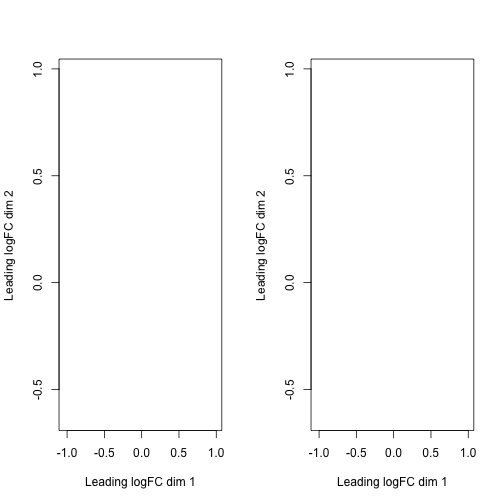
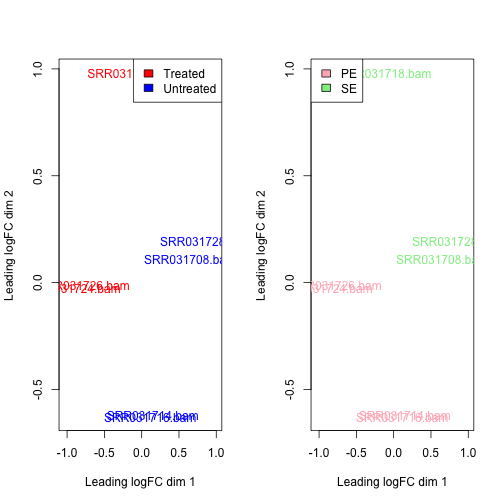
changed name of drosophila targets file, updated html

diff --git a/09-applying-rnaseq-solutions.html b/09-applying-rnaseq-solutions.html
@@ -57,7 +57,7 @@
 </code></pre>
 <p>Next, read in the data and targets file:</p>
 <pre class="sourceCode r"><code class="sourceCode r">counts &lt;-<span class="st"> </span><span class="kw">read.delim</span>(<span class="dt">file=</span><span class="st">&quot;data/counts_Drosophila.txt&quot;</span>)
-targets &lt;-<span class="st"> </span><span class="kw">read.delim</span>(<span class="dt">file=</span><span class="st">&quot;data/targets.txt&quot;</span>)</code></pre>
+targets &lt;-<span class="st"> </span><span class="kw">read.delim</span>(<span class="dt">file=</span><span class="st">&quot;data/targets_drosophila.txt&quot;</span>)</code></pre>
 <p>Check that the data has read in correctly</p>
 <pre class="sourceCode r"><code class="sourceCode r"><span class="kw">head</span>(counts)</code></pre>
 <pre class="output"><code>            SRR031714.bam SRR031716.bam SRR031724.bam SRR031726.bam
@@ -76,24 +76,21 @@ FBgn0037217            15            15            17
 FBgn0037218           695           767           793
 </code></pre>
 <pre class="sourceCode r"><code class="sourceCode r">targets</code></pre>
-<pre class="output"><code>                            FileName SampleName CellType   Status
-1  MCL1.DG_BC2CTUACXX_ACTTGA_L002_R1    MCL1.DG    basal   virgin
-2  MCL1.DH_BC2CTUACXX_CAGATC_L002_R1    MCL1.DH    basal   virgin
-3  MCL1.DI_BC2CTUACXX_ACAGTG_L002_R1    MCL1.DI    basal pregnant
-4  MCL1.DJ_BC2CTUACXX_CGATGT_L002_R1    MCL1.DJ    basal pregnant
-5  MCL1.DK_BC2CTUACXX_TTAGGC_L002_R1    MCL1.DK    basal  lactate
-6  MCL1.DL_BC2CTUACXX_ATCACG_L002_R1    MCL1.DL    basal  lactate
-7  MCL1.LA_BC2CTUACXX_GATCAG_L001_R1    MCL1.LA  luminal   virgin
-8  MCL1.LB_BC2CTUACXX_TGACCA_L001_R1    MCL1.LB  luminal   virgin
-9  MCL1.LC_BC2CTUACXX_GCCAAT_L001_R1    MCL1.LC  luminal pregnant
-10 MCL1.LD_BC2CTUACXX_GGCTAC_L001_R1    MCL1.LD  luminal pregnant
-11 MCL1.LE_BC2CTUACXX_TAGCTT_L001_R1    MCL1.LE  luminal  lactate
-12 MCL1.LF_BC2CTUACXX_CTTGTA_L001_R1    MCL1.LF  luminal  lactate
+<pre class="output"><code>  SampleName     Group Library
+1  SRR031714 Untreated      PE
+2  SRR031716 Untreated      PE
+3  SRR031724   Treated      PE
+4  SRR031726   Treated      PE
+5  SRR031708 Untreated      SE
+6  SRR031718   Treated      SE
+7  SRR031728 Untreated      SE
 </code></pre>
 <h2 id="filtering-out-lowly-expressed-genes">Filtering out lowly expressed genes</h2>
 <p>Our main interest is in testing the treated versus untreated groups. To check how many samples we have in each group we can use the <code>table</code> command.</p>
 <pre class="sourceCode r"><code class="sourceCode r"><span class="kw">table</span>(targets$Group)</code></pre>
-<pre class="output"><code>&lt; table of extent 0 &gt;
+<pre class="output"><code>
+  Treated Untreated 
+        3         4 
 </code></pre>
 <p>The minimum sample size is 3. Let’s check the relationship between CPM and counts to see what CPM threshold we should be imposing. Recall we’re looking for a CPM that corresponds to a count of roughly 10-15.</p>
 <pre class="sourceCode r"><code class="sourceCode r">mycpm &lt;-<span class="st"> </span><span class="kw">cpm</span>(counts)
@@ -141,14 +138,10 @@ lib.col &lt;-<span class="st"> </span><span class="kw">c</span>(<span class="st"
 <p><img src="fig/unnamed-chunk-13-1.png" title="plot of chunk unnamed-chunk-13" alt="plot of chunk unnamed-chunk-13" style="display: block; margin: auto;" /></p>
 <pre class="sourceCode r"><code class="sourceCode r"><span class="kw">par</span>(<span class="dt">mfrow=</span><span class="kw">c</span>(<span class="dv">1</span>,<span class="dv">2</span>))
 <span class="kw">plotMDS</span>(y,<span class="dt">col=</span>group.col)
-<span class="kw">legend</span>(<span class="st">&quot;topright&quot;</span>,<span class="dt">legend=</span><span class="kw">levels</span>(targets$Group),<span class="dt">fill=</span><span class="kw">c</span>(<span class="st">&quot;red&quot;</span>,<span class="st">&quot;blue&quot;</span>))</code></pre>
-<pre class="error"><code>Error in legend(&quot;topright&quot;, legend = levels(targets$Group), fill = c(&quot;red&quot;, : &#39;legend&#39; is of length 0
-</code></pre>
-<pre class="sourceCode r"><code class="sourceCode r"><span class="kw">plotMDS</span>(y,<span class="dt">col=</span>lib.col)</code></pre>
+<span class="kw">legend</span>(<span class="st">&quot;topright&quot;</span>,<span class="dt">legend=</span><span class="kw">levels</span>(targets$Group),<span class="dt">fill=</span><span class="kw">c</span>(<span class="st">&quot;red&quot;</span>,<span class="st">&quot;blue&quot;</span>))
+<span class="kw">plotMDS</span>(y,<span class="dt">col=</span>lib.col)
+<span class="kw">legend</span>(<span class="st">&quot;topleft&quot;</span>,<span class="dt">legend=</span><span class="kw">levels</span>(targets$Library),<span class="dt">fill=</span><span class="kw">c</span>(<span class="st">&quot;light pink&quot;</span>,<span class="st">&quot;light green&quot;</span>))</code></pre>
 <p><img src="fig/unnamed-chunk-14-1.png" title="plot of chunk unnamed-chunk-14" alt="plot of chunk unnamed-chunk-14" style="display: block; margin: auto;" /></p>
-<pre class="sourceCode r"><code class="sourceCode r"><span class="kw">legend</span>(<span class="st">&quot;topleft&quot;</span>,<span class="dt">legend=</span><span class="kw">levels</span>(targets$Library),<span class="dt">fill=</span><span class="kw">c</span>(<span class="st">&quot;light pink&quot;</span>,<span class="st">&quot;light green&quot;</span>))</code></pre>
-<pre class="error"><code>Error in legend(&quot;topleft&quot;, legend = levels(targets$Library), fill = c(&quot;light pink&quot;, : &#39;legend&#39; is of length 0
-</code></pre>
 <h2 id="hierarchical-clustering-with-heatmap.2">Hierarchical clustering with heatmap.2</h2>
 <p>First we need a matrix of log counts:</p>
 <pre class="sourceCode r"><code class="sourceCode r">logcounts &lt;-<span class="st"> </span><span class="kw">cpm</span>(y,<span class="dt">log=</span><span class="ot">TRUE</span>)</code></pre>
@@ -164,11 +157,9 @@ lib.col &lt;-<span class="st"> </span><span class="kw">c</span>(<span class="st"
 morecols &lt;-<span class="st"> </span><span class="kw">colorRampPalette</span>(mypalette)
 <span class="co"># Plot the heatmap</span>
 <span class="kw">heatmap.2</span>(highly_variable_lcpm,<span class="dt">col=</span><span class="kw">rev</span>(<span class="kw">morecols</span>(<span class="dv">50</span>)),<span class="dt">trace=</span><span class="st">&quot;none&quot;</span>, <span class="dt">main=</span><span class="st">&quot;Top 500 most variable genes across samples&quot;</span>,<span class="dt">ColSideColors=</span>group.col,<span class="dt">scale=</span><span class="st">&quot;row&quot;</span>,<span class="dt">margins=</span><span class="kw">c</span>(<span class="dv">10</span>,<span class="dv">5</span>))</code></pre>
-<pre class="error"><code>Error in heatmap.2(highly_variable_lcpm, col = rev(morecols(50)), trace = &quot;none&quot;, : &#39;ColSideColors&#39; must be a character vector of length ncol(x)
-</code></pre>
+<p><img src="fig/unnamed-chunk-19-1.png" title="plot of chunk unnamed-chunk-19" alt="plot of chunk unnamed-chunk-19" style="display: block; margin: auto;" /></p>
 <pre class="sourceCode r"><code class="sourceCode r"><span class="kw">heatmap.2</span>(highly_variable_lcpm,<span class="dt">col=</span><span class="kw">rev</span>(<span class="kw">morecols</span>(<span class="dv">50</span>)),<span class="dt">trace=</span><span class="st">&quot;none&quot;</span>, <span class="dt">main=</span><span class="st">&quot;Top 500 most variable genes across samples&quot;</span>,<span class="dt">ColSideColors=</span>lib.col,<span class="dt">scale=</span><span class="st">&quot;row&quot;</span>,<span class="dt">margins=</span><span class="kw">c</span>(<span class="dv">10</span>,<span class="dv">5</span>))</code></pre>
-<pre class="error"><code>Error in heatmap.2(highly_variable_lcpm, col = rev(morecols(50)), trace = &quot;none&quot;, : &#39;ColSideColors&#39; must be a character vector of length ncol(x)
-</code></pre>
+<p><img src="fig/unnamed-chunk-19-2.png" title="plot of chunk unnamed-chunk-19" alt="plot of chunk unnamed-chunk-19" style="display: block; margin: auto;" /></p>
 <h2 id="normalisation">Normalisation</h2>
 <p>Let’s do TMM normalisation</p>
 <pre class="sourceCode r"><code class="sourceCode r">y &lt;-<span class="st"> </span><span class="kw">calcNormFactors</span>(y)
@@ -191,51 +182,69 @@ SRR031728.bam     1  4031608    1.0106328
 <h2 id="differential-expression">Differential expression</h2>
 <h3 id="set-up-design-matrix">Set up design matrix</h3>
 <p>We want to test for differences between the treated and untreated samples. However, we know that the library preparation adds variability to the data, so we need to account for it in our model. We do this by modelling both Group and Library as variables in our design matrix. This is known as an additive model.</p>
-<pre class="sourceCode r"><code class="sourceCode r">design &lt;-<span class="st"> </span><span class="kw">model.matrix</span>(~targets$Library +<span class="st"> </span>targets$Group)</code></pre>
-<pre class="error"><code>Error in model.frame.default(object, data, xlev = xlev): invalid type (NULL) for variable &#39;targets$Library&#39;
-</code></pre>
-<pre class="sourceCode r"><code class="sourceCode r">design</code></pre>
-<pre class="output"><code>standardGeneric for &quot;design&quot; defined from package &quot;BiocGenerics&quot;
+<pre class="sourceCode r"><code class="sourceCode r">design &lt;-<span class="st"> </span><span class="kw">model.matrix</span>(~targets$Library +<span class="st"> </span>targets$Group)
+design</code></pre>
+<pre class="output"><code>  (Intercept) targets$LibrarySE targets$GroupUntreated
+1           1                 0                      1
+2           1                 0                      1
+3           1                 0                      0
+4           1                 0                      0
+5           1                 1                      1
+6           1                 1                      0
+7           1                 1                      1
+attr(,&quot;assign&quot;)
+[1] 0 1 2
+attr(,&quot;contrasts&quot;)
+attr(,&quot;contrasts&quot;)$`targets$Library`
+[1] &quot;contr.treatment&quot;
 
-function (object, ...) 
-standardGeneric(&quot;design&quot;)
-&lt;environment: 0x7ffdeb1a8188&gt;
-Methods may be defined for arguments: object
-Use  showMethods(&quot;design&quot;)  for currently available ones.
+attr(,&quot;contrasts&quot;)$`targets$Group`
+[1] &quot;contr.treatment&quot;
 </code></pre>
 <pre class="sourceCode r"><code class="sourceCode r"><span class="kw">colnames</span>(design) &lt;-<span class="st"> </span><span class="kw">c</span>(<span class="st">&quot;Int&quot;</span>,<span class="st">&quot;SEvsPE&quot;</span>,<span class="st">&quot;UVsT&quot;</span>)</code></pre>
-<pre class="error"><code>Error in `colnames&lt;-`(`*tmp*`, value = c(&quot;Int&quot;, &quot;SEvsPE&quot;, &quot;UVsT&quot;)): attempt to set &#39;colnames&#39; on an object with less than two dimensions
-</code></pre>
 <h3 id="voom-transform-the-data">Voom transform the data</h3>
 <pre class="sourceCode r"><code class="sourceCode r"><span class="kw">par</span>(<span class="dt">mfrow=</span><span class="kw">c</span>(<span class="dv">1</span>,<span class="dv">1</span>))
 v &lt;-<span class="st"> </span><span class="kw">voom</span>(y,design,<span class="dt">plot=</span><span class="ot">TRUE</span>)</code></pre>
-<pre class="error"><code>Error in as.vector(x, mode): cannot coerce type &#39;closure&#39; to vector of type &#39;any&#39;
-</code></pre>
+<p><img src="fig/unnamed-chunk-23-1.png" title="plot of chunk unnamed-chunk-23" alt="plot of chunk unnamed-chunk-23" style="display: block; margin: auto;" /></p>
 <pre class="sourceCode r"><code class="sourceCode r"><span class="kw">par</span>(<span class="dt">mfrow=</span><span class="kw">c</span>(<span class="dv">1</span>,<span class="dv">2</span>))
 <span class="kw">boxplot</span>(logcounts)
 <span class="kw">abline</span>(<span class="dt">h=</span><span class="kw">median</span>(logcounts),<span class="dt">col=</span><span class="dv">4</span>)
-<span class="kw">boxplot</span>(v$E)</code></pre>
-<pre class="error"><code>Error in boxplot(v$E): object &#39;v&#39; not found
-</code></pre>
-<pre class="sourceCode r"><code class="sourceCode r"><span class="kw">abline</span>(<span class="dt">h=</span><span class="kw">median</span>(v$E),<span class="dt">col=</span><span class="dv">4</span>)</code></pre>
-<pre class="error"><code>Error in median(v$E): object &#39;v&#39; not found
-</code></pre>
+<span class="kw">boxplot</span>(v$E)
+<span class="kw">abline</span>(<span class="dt">h=</span><span class="kw">median</span>(v$E),<span class="dt">col=</span><span class="dv">4</span>)</code></pre>
 <p><img src="fig/unnamed-chunk-24-1.png" title="plot of chunk unnamed-chunk-24" alt="plot of chunk unnamed-chunk-24" style="display: block; margin: auto;" /></p>
 <h3 id="test-for-differential-expression">Test for differential expression</h3>
-<pre class="sourceCode r"><code class="sourceCode r">fit &lt;-<span class="st"> </span><span class="kw">lmFit</span>(v,design)</code></pre>
-<pre class="error"><code>Error in is(object, &quot;list&quot;): object &#39;v&#39; not found
-</code></pre>
-<pre class="sourceCode r"><code class="sourceCode r">fit &lt;-<span class="st"> </span><span class="kw">eBayes</span>(fit)</code></pre>
-<pre class="error"><code>Error in ebayes(fit = fit, proportion = proportion, stdev.coef.lim = stdev.coef.lim, : object &#39;fit&#39; not found
-</code></pre>
-<pre class="sourceCode r"><code class="sourceCode r">results &lt;-<span class="st"> </span><span class="kw">decideTests</span>(fit)</code></pre>
-<pre class="error"><code>Error in is(object, &quot;MArrayLM&quot;): object &#39;fit&#39; not found
-</code></pre>
-<pre class="sourceCode r"><code class="sourceCode r"><span class="kw">summary</span>(results)</code></pre>
-<pre class="error"><code>Error in summary(results): object &#39;results&#39; not found
+<pre class="sourceCode r"><code class="sourceCode r">fit &lt;-<span class="st"> </span><span class="kw">lmFit</span>(v,design)
+fit &lt;-<span class="st"> </span><span class="kw">eBayes</span>(fit)
+results &lt;-<span class="st"> </span><span class="kw">decideTests</span>(fit)
+<span class="kw">summary</span>(results)</code></pre>
+<pre class="output"><code>    Int SEvsPE UVsT
+-1    4    125  440
+0    66   7142 6641
+1  7454    257  443
 </code></pre>
 <pre class="sourceCode r"><code class="sourceCode r"><span class="kw">topTable</span>(fit,<span class="dt">coef=</span><span class="dv">3</span>,<span class="dt">sort.by=</span><span class="st">&quot;p&quot;</span>)</code></pre>
-<pre class="error"><code>Error in is(fit, &quot;MArrayLM&quot;): object &#39;fit&#39; not found
+<pre class="output"><code>                logFC   AveExpr         t      P.Value    adj.P.Val
+FBgn0025111 -2.863110  6.253448 -31.24326 9.756044e-13 4.734428e-09
+FBgn0003360  3.089242  7.778378  30.57062 1.258487e-12 4.734428e-09
+FBgn0026562  2.422219 11.359837  24.25592 1.868075e-11 4.685133e-08
+FBgn0029167  2.247086  7.825170  21.77945 6.509505e-11 1.224438e-07
+FBgn0035085  2.677008  5.180607  18.97509 3.188148e-10 4.797524e-07
+FBgn0039155  4.272254  4.800907  17.42222 8.476440e-10 1.062946e-06
+FBgn0040091  1.559497  6.245766  15.43293 3.363833e-09 3.615639e-06
+FBgn0023479  1.576335  7.768886  15.06473 4.419245e-09 3.877495e-06
+FBgn0029896  2.312097  4.881577  15.00033 4.638152e-09 3.877495e-06
+FBgn0027279  1.180272  7.760889  14.37303 7.503535e-09 5.645660e-06
+                   B
+FBgn0025111 19.04663
+FBgn0003360 19.04370
+FBgn0026562 16.57869
+FBgn0029167 15.57725
+FBgn0035085 13.66077
+FBgn0039155 12.15024
+FBgn0040091 11.72125
+FBgn0023479 11.43434
+FBgn0029896 11.25267
+FBgn0027279 10.89435
 </code></pre>
 <h3 id="add-annotation-from-org.dm.eg.db">Add annotation from org.Dm.eg.db</h3>
 <p>The rownames of the fit object are the ensemble gene ids. The <code>select</code> function doesn’t work in this case, but there is a less elegant way to get around it, using the <code>toTable</code> command.</p>
@@ -309,65 +318,139 @@ ann2 &lt;-<span class="st"> </span><span class="kw">merge</span>(ann1,genename,<
 6 CG42852 gene product from transcript CG42852-RA
 </code></pre>
 <p>Now we need to match up between <code>rownames(fit)</code> and the ensemble gene id in <code>ann2</code>.</p>
-<pre class="sourceCode r"><code class="sourceCode r">m &lt;-<span class="st"> </span><span class="kw">match</span>(<span class="kw">rownames</span>(fit),ann2$ensembl_id)</code></pre>
-<pre class="error"><code>Error in rownames(fit): object &#39;fit&#39; not found
-</code></pre>
-<pre class="sourceCode r"><code class="sourceCode r"><span class="kw">table</span>(<span class="kw">is.na</span>(m))</code></pre>
-<pre class="error"><code>Error in eval(expr, envir, enclos): object &#39;m&#39; not found
+<pre class="sourceCode r"><code class="sourceCode r">m &lt;-<span class="st"> </span><span class="kw">match</span>(<span class="kw">rownames</span>(fit),ann2$ensembl_id)
+<span class="kw">table</span>(<span class="kw">is.na</span>(m))</code></pre>
+<pre class="output"><code>
+FALSE  TRUE 
+ 6986   538 
 </code></pre>
 <pre class="sourceCode r"><code class="sourceCode r">fit$genes &lt;-<span class="st"> </span>ann2[m,]</code></pre>
-<pre class="error"><code>Error in `[.data.frame`(ann2, m, ): object &#39;m&#39; not found
-</code></pre>
 <pre class="sourceCode r"><code class="sourceCode r"><span class="kw">topTable</span>(fit,<span class="dt">coef=</span><span class="dv">3</span>,<span class="dt">sort.by=</span><span class="st">&quot;p&quot;</span>)</code></pre>
-<pre class="error"><code>Error in is(fit, &quot;MArrayLM&quot;): object &#39;fit&#39; not found
+<pre class="output"><code>            gene_id  ensembl_id      symbol
+FBgn0025111   32008 FBgn0025111        Ant2
+FBgn0003360   32007 FBgn0003360        sesB
+FBgn0026562   43230 FBgn0026562 BM-40-SPARC
+FBgn0029167   39529 FBgn0029167         Hml
+FBgn0035085   37991 FBgn0035085      CG3770
+FBgn0039155   42865 FBgn0039155        Kal1
+FBgn0040091   37590 FBgn0040091     Ugt58Fa
+FBgn0023479   39048 FBgn0023479     Tequila
+FBgn0029896   31612 FBgn0029896      CG3168
+FBgn0027279   33137 FBgn0027279   l(1)G0196
+                                                gene_name     logFC
+FBgn0025111              Adenine nucleotide translocase 2 -2.863110
+FBgn0003360                            stress-sensitive B  3.089242
+FBgn0026562 CG6378 gene product from transcript CG6378-RA  2.422219
+FBgn0029167                                    Hemolectin  2.247086
+FBgn0035085 CG3770 gene product from transcript CG3770-RA  2.677008
+FBgn0039155                  Kallmann syndrome 1 ortholog  4.272254
+FBgn0040091 CG4414 gene product from transcript CG4414-RB  1.559497
+FBgn0023479 CG4821 gene product from transcript CG4821-RG  1.576335
+FBgn0029896 CG3168 gene product from transcript CG3168-RG  2.312097
+FBgn0027279                              lethal (1) G0196  1.180272
+              AveExpr         t      P.Value    adj.P.Val        B
+FBgn0025111  6.253448 -31.24326 9.756044e-13 4.734428e-09 19.04663
+FBgn0003360  7.778378  30.57062 1.258487e-12 4.734428e-09 19.04370
+FBgn0026562 11.359837  24.25592 1.868075e-11 4.685133e-08 16.57869
+FBgn0029167  7.825170  21.77945 6.509505e-11 1.224438e-07 15.57725
+FBgn0035085  5.180607  18.97509 3.188148e-10 4.797524e-07 13.66077
+FBgn0039155  4.800907  17.42222 8.476440e-10 1.062946e-06 12.15024
+FBgn0040091  6.245766  15.43293 3.363833e-09 3.615639e-06 11.72125
+FBgn0023479  7.768886  15.06473 4.419245e-09 3.877495e-06 11.43434
+FBgn0029896  4.881577  15.00033 4.638152e-09 3.877495e-06 11.25267
+FBgn0027279  7.760889  14.37303 7.503535e-09 5.645660e-06 10.89435
 </code></pre>
 <p>Let’s check the expression of pasilla.</p>
-<pre class="sourceCode r"><code class="sourceCode r">ps &lt;-<span class="st"> </span><span class="kw">grep</span>(<span class="st">&quot;pasilla&quot;</span>,fit$genes$gene_name)</code></pre>
-<pre class="error"><code>Error in grep(&quot;pasilla&quot;, fit$genes$gene_name): object &#39;fit&#39; not found
-</code></pre>
-<pre class="sourceCode r"><code class="sourceCode r"><span class="kw">topTable</span>(fit[ps,],<span class="dt">coef=</span><span class="dv">3</span>)</code></pre>
-<pre class="error"><code>Error in is(fit, &quot;MArrayLM&quot;): object &#39;fit&#39; not found
+<pre class="sourceCode r"><code class="sourceCode r">ps &lt;-<span class="st"> </span><span class="kw">grep</span>(<span class="st">&quot;pasilla&quot;</span>,fit$genes$gene_name)
+<span class="kw">topTable</span>(fit[ps,],<span class="dt">coef=</span><span class="dv">3</span>)</code></pre>
+<pre class="output"><code>            gene_id  ensembl_id symbol gene_name    logFC  AveExpr       t
+FBgn0261552   44258 FBgn0261552     ps   pasilla 1.845368 8.344996 11.5651
+                P.Value   adj.P.Val        B
+FBgn0261552 8.37355e-08 8.37355e-08 8.425095
 </code></pre>
 <h2 id="plots-after-testing-for-de">Plots after testing for DE</h2>
 <pre class="sourceCode r"><code class="sourceCode r"><span class="kw">par</span>(<span class="dt">mfrow=</span><span class="kw">c</span>(<span class="dv">1</span>,<span class="dv">2</span>))
-<span class="kw">plotMD</span>(fit,<span class="dt">coef=</span><span class="dv">3</span>,<span class="dt">status=</span>results[,<span class="st">&quot;UVsT&quot;</span>])</code></pre>
-<pre class="error"><code>Error in plotMD(fit, coef = 3, status = results[, &quot;UVsT&quot;]): object &#39;fit&#39; not found
-</code></pre>
-<pre class="sourceCode r"><code class="sourceCode r"><span class="kw">volcanoplot</span>(fit,<span class="dt">coef=</span><span class="dv">3</span>,<span class="dt">highlight=</span><span class="dv">100</span>,<span class="dt">names=</span>fit$genes$symbol)</code></pre>
-<pre class="error"><code>Error in is(fit, &quot;MArrayLM&quot;): object &#39;fit&#39; not found
-</code></pre>
+<span class="kw">plotMD</span>(fit,<span class="dt">coef=</span><span class="dv">3</span>,<span class="dt">status=</span>results[,<span class="st">&quot;UVsT&quot;</span>])
+
+<span class="kw">volcanoplot</span>(fit,<span class="dt">coef=</span><span class="dv">3</span>,<span class="dt">highlight=</span><span class="dv">100</span>,<span class="dt">names=</span>fit$genes$symbol)</code></pre>
+<p><img src="fig/unnamed-chunk-31-1.png" title="plot of chunk unnamed-chunk-31" alt="plot of chunk unnamed-chunk-31" style="display: block; margin: auto;" /></p>
 <pre class="sourceCode r"><code class="sourceCode r"><span class="kw">stripchart</span>(v$E[<span class="st">&quot;FBgn0025111&quot;</span>,]~targets$Group)</code></pre>
-<pre class="error"><code>Error in eval(expr, envir, enclos): object &#39;v&#39; not found
-</code></pre>
+<p><img src="fig/unnamed-chunk-32-1.png" title="plot of chunk unnamed-chunk-32" alt="plot of chunk unnamed-chunk-32" style="display: block; margin: auto;" /></p>
 <pre class="sourceCode r"><code class="sourceCode r"><span class="co"># Check expression of Pasilla</span>
 <span class="kw">stripchart</span>(v$E[<span class="st">&quot;FBgn0261552&quot;</span>,]~targets$Group)</code></pre>
-<pre class="error"><code>Error in eval(expr, envir, enclos): object &#39;v&#39; not found
-</code></pre>
+<p><img src="fig/unnamed-chunk-33-1.png" title="plot of chunk unnamed-chunk-33" alt="plot of chunk unnamed-chunk-33" style="display: block; margin: auto;" /></p>
 <h2 id="testing-relative-to-a-threshold">Testing relative to a threshold</h2>
-<pre class="sourceCode r"><code class="sourceCode r">fit.treat &lt;-<span class="st"> </span><span class="kw">treat</span>(fit,<span class="dt">lfc=</span><span class="dv">1</span>)</code></pre>
-<pre class="error"><code>Error in is(fit, &quot;MArrayLM&quot;): object &#39;fit&#39; not found
-</code></pre>
-<pre class="sourceCode r"><code class="sourceCode r">res.treat &lt;-<span class="st"> </span><span class="kw">decideTests</span>(fit.treat)</code></pre>
-<pre class="error"><code>Error in is(object, &quot;MArrayLM&quot;): object &#39;fit.treat&#39; not found
-</code></pre>
-<pre class="sourceCode r"><code class="sourceCode r"><span class="kw">summary</span>(res.treat)</code></pre>
-<pre class="error"><code>Error in summary(res.treat): object &#39;res.treat&#39; not found
+<pre class="sourceCode r"><code class="sourceCode r">fit.treat &lt;-<span class="st"> </span><span class="kw">treat</span>(fit,<span class="dt">lfc=</span><span class="dv">1</span>)
+res.treat &lt;-<span class="st"> </span><span class="kw">decideTests</span>(fit.treat)
+<span class="kw">summary</span>(res.treat)</code></pre>
+<pre class="output"><code>    Int SEvsPE UVsT
+-1    2     13   10
+0   350   7510 7496
+1  7172      1   18
 </code></pre>
 <pre class="sourceCode r"><code class="sourceCode r"><span class="kw">topTreat</span>(fit.treat,<span class="dt">coef=</span><span class="dv">3</span>)</code></pre>
-<pre class="error"><code>Error in is(fit, &quot;MArrayLM&quot;): object &#39;fit.treat&#39; not found
+<pre class="output"><code>            gene_id  ensembl_id      symbol
+FBgn0003360   32007 FBgn0003360        sesB
+FBgn0025111   32008 FBgn0025111        Ant2
+FBgn0026562   43230 FBgn0026562 BM-40-SPARC
+FBgn0039155   42865 FBgn0039155        Kal1
+FBgn0029167   39529 FBgn0029167         Hml
+FBgn0035085   37991 FBgn0035085      CG3770
+FBgn0034736   37572 FBgn0034736      CG6018
+FBgn0000071   40831 FBgn0000071         Ama
+FBgn0029896   31612 FBgn0029896      CG3168
+FBgn0039827   43689 FBgn0039827      CG1544
+                                                gene_name     logFC
+FBgn0003360                            stress-sensitive B  3.089242
+FBgn0025111              Adenine nucleotide translocase 2 -2.863110
+FBgn0026562 CG6378 gene product from transcript CG6378-RA  2.422219
+FBgn0039155                  Kallmann syndrome 1 ortholog  4.272254
+FBgn0029167                                    Hemolectin  2.247086
+FBgn0035085 CG3770 gene product from transcript CG3770-RA  2.677008
+FBgn0034736 CG6018 gene product from transcript CG6018-RA  3.407306
+FBgn0000071                                       Amalgam -2.572434
+FBgn0029896 CG3168 gene product from transcript CG3168-RG  2.312097
+FBgn0039827 CG1544 gene product from transcript CG1544-RA  3.925533
+              AveExpr          t      P.Value    adj.P.Val
+FBgn0003360  7.778378  20.674784 5.940461e-11 2.711163e-07
+FBgn0025111  6.253448 -20.330911 7.206708e-11 2.711163e-07
+FBgn0026562 11.359837  14.241997 4.158446e-09 1.042938e-05
+FBgn0039155  4.800907  13.344224 8.653631e-09 1.627748e-05
+FBgn0029167  7.825170  12.087142 2.578989e-08 3.880863e-05
+FBgn0035085  5.180607  11.886920 3.099362e-08 3.886600e-05
+FBgn0034736  3.372966   8.780952 7.931358e-07 8.094637e-04
+FBgn0000071  4.209333  -8.710932 8.606738e-07 8.094637e-04
+FBgn0029896  4.881577   8.512571 1.091548e-06 8.898178e-04
+FBgn0039827  3.204658   8.449359 1.182639e-06 8.898178e-04
 </code></pre>
-<pre class="sourceCode r"><code class="sourceCode r"><span class="kw">plotMD</span>(fit.treat,<span class="dt">coef=</span><span class="dv">3</span>,<span class="dt">status=</span>res.treat[,<span class="st">&quot;UVsT&quot;</span>])</code></pre>
-<pre class="error"><code>Error in plotMD(fit.treat, coef = 3, status = res.treat[, &quot;UVsT&quot;]): object &#39;fit.treat&#39; not found
-</code></pre>
-<pre class="sourceCode r"><code class="sourceCode r"><span class="kw">abline</span>(<span class="dt">h=</span><span class="dv">0</span>,<span class="dt">col=</span><span class="st">&quot;grey&quot;</span>)</code></pre>
-<pre class="error"><code>Error in int_abline(a = a, b = b, h = h, v = v, untf = untf, ...): plot.new has not been called yet
-</code></pre>
+<pre class="sourceCode r"><code class="sourceCode r"><span class="kw">plotMD</span>(fit.treat,<span class="dt">coef=</span><span class="dv">3</span>,<span class="dt">status=</span>res.treat[,<span class="st">&quot;UVsT&quot;</span>])
+<span class="kw">abline</span>(<span class="dt">h=</span><span class="dv">0</span>,<span class="dt">col=</span><span class="st">&quot;grey&quot;</span>)</code></pre>
+<p><img src="fig/unnamed-chunk-35-1.png" title="plot of chunk unnamed-chunk-35" alt="plot of chunk unnamed-chunk-35" style="display: block; margin: auto;" /></p>
 <h2 id="gene-set-testing-with-goana">Gene set testing with goana</h2>
-<pre class="sourceCode r"><code class="sourceCode r">go &lt;-<span class="st"> </span><span class="kw">goana</span>(fit, <span class="dt">coef=</span><span class="st">&quot;UVsT&quot;</span>,<span class="dt">species =</span> <span class="st">&quot;Dm&quot;</span>, <span class="dt">geneid=</span><span class="st">&quot;gene_id&quot;</span>)</code></pre>
-<pre class="error"><code>Error in goana(fit, coef = &quot;UVsT&quot;, species = &quot;Dm&quot;, geneid = &quot;gene_id&quot;): object &#39;fit&#39; not found
-</code></pre>
-<pre class="sourceCode r"><code class="sourceCode r"><span class="kw">topGO</span>(go, <span class="dt">n=</span><span class="dv">10</span>)</code></pre>
-<pre class="error"><code>Error in is.data.frame(results): object &#39;go&#39; not found
+<pre class="sourceCode r"><code class="sourceCode r">go &lt;-<span class="st"> </span><span class="kw">goana</span>(fit, <span class="dt">coef=</span><span class="st">&quot;UVsT&quot;</span>,<span class="dt">species =</span> <span class="st">&quot;Dm&quot;</span>, <span class="dt">geneid=</span><span class="st">&quot;gene_id&quot;</span>)
+<span class="kw">topGO</span>(go, <span class="dt">n=</span><span class="dv">10</span>)</code></pre>
+<pre class="output"><code>                                                     Term Ont   N Up Down
+GO:0044421                      extracellular region part  CC 148 22   27
+GO:0044724 single-organism carbohydrate catabolic process  BP  23  2   10
+GO:0005576                           extracellular region  CC 263 35   38
+GO:0019991                      septate junction assembly  BP  25  0   10
+GO:0016052                 carbohydrate catabolic process  BP  25  2   10
+GO:0005886                                plasma membrane  CC 494 36   56
+GO:0071944                                 cell periphery  CC 572 42   62
+GO:0008509       anion transmembrane transporter activity  MF  94 18   11
+GO:0001676        long-chain fatty acid metabolic process  BP   4  4    0
+GO:0007043                    cell-cell junction assembly  BP  32  0   10
+                   P.Up       P.Down
+GO:0044421 4.171979e-05 2.013830e-07
+GO:0044724 3.926743e-01 3.550348e-07
+GO:0005576 3.099608e-06 4.062592e-07
+GO:0019991 1.000000e+00 9.081054e-07
+GO:0016052 4.341755e-01 9.081054e-07
+GO:0005886 9.561659e-02 2.769739e-06
+GO:0071944 6.918321e-02 3.448867e-06
+GO:0008509 6.247719e-06 2.711234e-02
+GO:0001676 1.150056e-05 1.000000e+00
+GO:0007043 1.000000e+00 1.217519e-05
 </code></pre>
 <div class="references">
 
